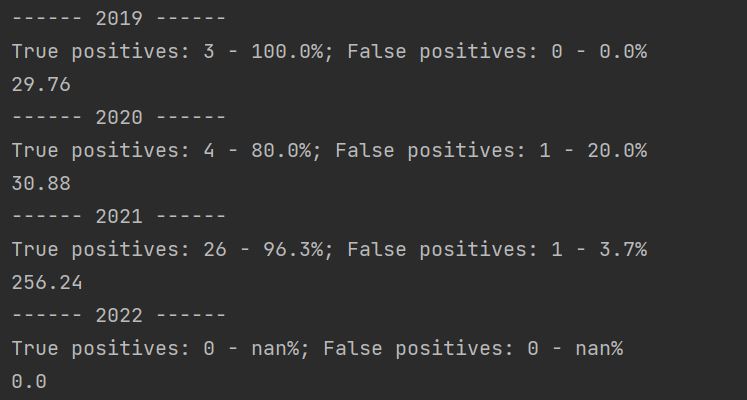
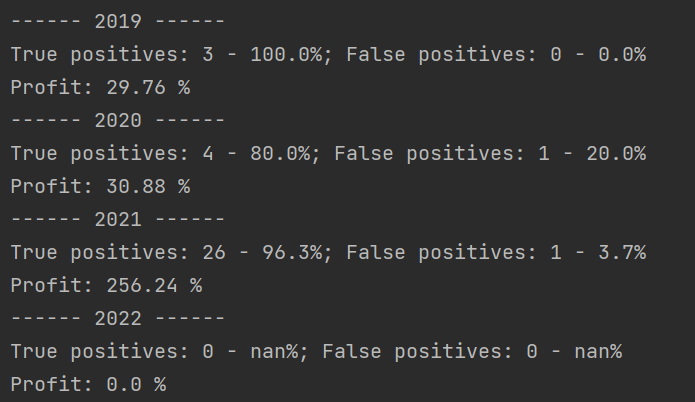
readme

diff --git a/Analysis/dif_price/Study 2 - ML evolution values/ML.py b/Analysis/dif_price/Study 2 - ML evolution values/ML.py
@@ -103,9 +103,7 @@ def create_data(file='C:/Users/Pablo/Desktop/PMG/00Versions/get_data/BTCUSDT-4h.
     df.dropna(inplace=True)
 
     # Order final
-    col_study = ['Output', 'RV', 'Close', 'High', 'Low', 'Open', 'Volume_sum', 'NTrades_sum', 'MACD', 'RSI', 'Dist_EMA14',
-                 'Dist_EMA25',
-                 'Dist_EMA150']
+    col_study = ['Output', 'RV', 'Close', 'High', 'Low', 'Open', 'Volume_sum', 'NTrades_sum', 'MACD', 'RSI', 'Dist_EMA14', 'Dist_EMA25', 'Dist_EMA150']
 
     df = df[col_study]
     # To not have any data on the training, is the final test
@@ -172,7 +170,7 @@ if __name__ == '__main__':
     # --- VARIABLES TO DEFINE ---
     kind = '-'
     training = False
-    profit = 5
+    profit = 10
     if not training:
         if profit == 5:
             filename = f'Extra Trees_profit{kind}{profit}.sav'
@@ -215,7 +213,7 @@ if __name__ == '__main__':
                 final_profit = true_positives * profit - false_positives.sum() * 100 - 2 * fee * (
                             true_positives + false_positives.count())  # 2 cause buy and sell
 
-            print(round(final_profit,2))
+            print(f'Profit: {round(final_profit,2)} %')
 
         if filename.split()[0] == "Decision":
             graph = Source(

diff --git a/Analysis/README.md b/Analysis/README.md
@@ -1,4 +1,6 @@
 # Analysis
+<img height="25" width="25" src="https://unpkg.com/simple-icons@v6/icons/python.svg"/> <img height="25" width="25" src="https://unpkg.com/simple-icons@v6/icons/pytorch.svg"/> <img height="25" width="25" src="https://unpkg.com/simple-icons@v6/icons/scikitlearn.svg"/>
+
 In this section you can find the different analyses carried out.  
 
 _**NOTE**: All kinds of approaches have been done in different time frames and with different sets of inputs. As the possible combinations of these 2 factors are infinite, all the conclusions are relative to the current moment, any of these study paths are 100% discarded._
@@ -35,14 +37,12 @@ The approaches studied to date are:
 
       Extra Trees (Output -5%):
 
-<img src="https://github.com/pvillegasmartin/cryptocurrencies/blob/main/Analysis/Price_forecast/ML/Testing_output.png?raw=True"/>
+<img src="https://github.com/pvillegasmartin/cryptocurrencies/blob/main/Analysis/Dif_price/Study%202%20-%20ML%20evolution%20values/Output_ET_-5.PNG?raw=True"/>
 
       Extra Trees (Output -10%):
 
-<img src="https://github.com/pvillegasmartin/cryptocurrencies/blob/main/Analysis/Price_forecast/DL/Test_2022_4H_out1_inputsdim7_ldim2_nsteps7.png?raw=True"/>
+<img src="https://github.com/pvillegasmartin/cryptocurrencies/blob/main/Analysis/Dif_price/Study%202%20-%20ML%20evolution%20values/Output_ET_-10.PNG?raw=True"/>
 
 
 4. [Local max/min](MAXMIN%20Locals)
 5. [Sentiment analysis](Sentiment)
- 
-<img height="25" width="25" src="https://unpkg.com/simple-icons@v6/icons/python.svg"/> <img height="25" width="25" src="https://unpkg.com/simple-icons@v6/icons/pytorch.svg"/> <img height="25" width="25" src="https://unpkg.com/simple-icons@v6/icons/scikitlearn.svg"/>
